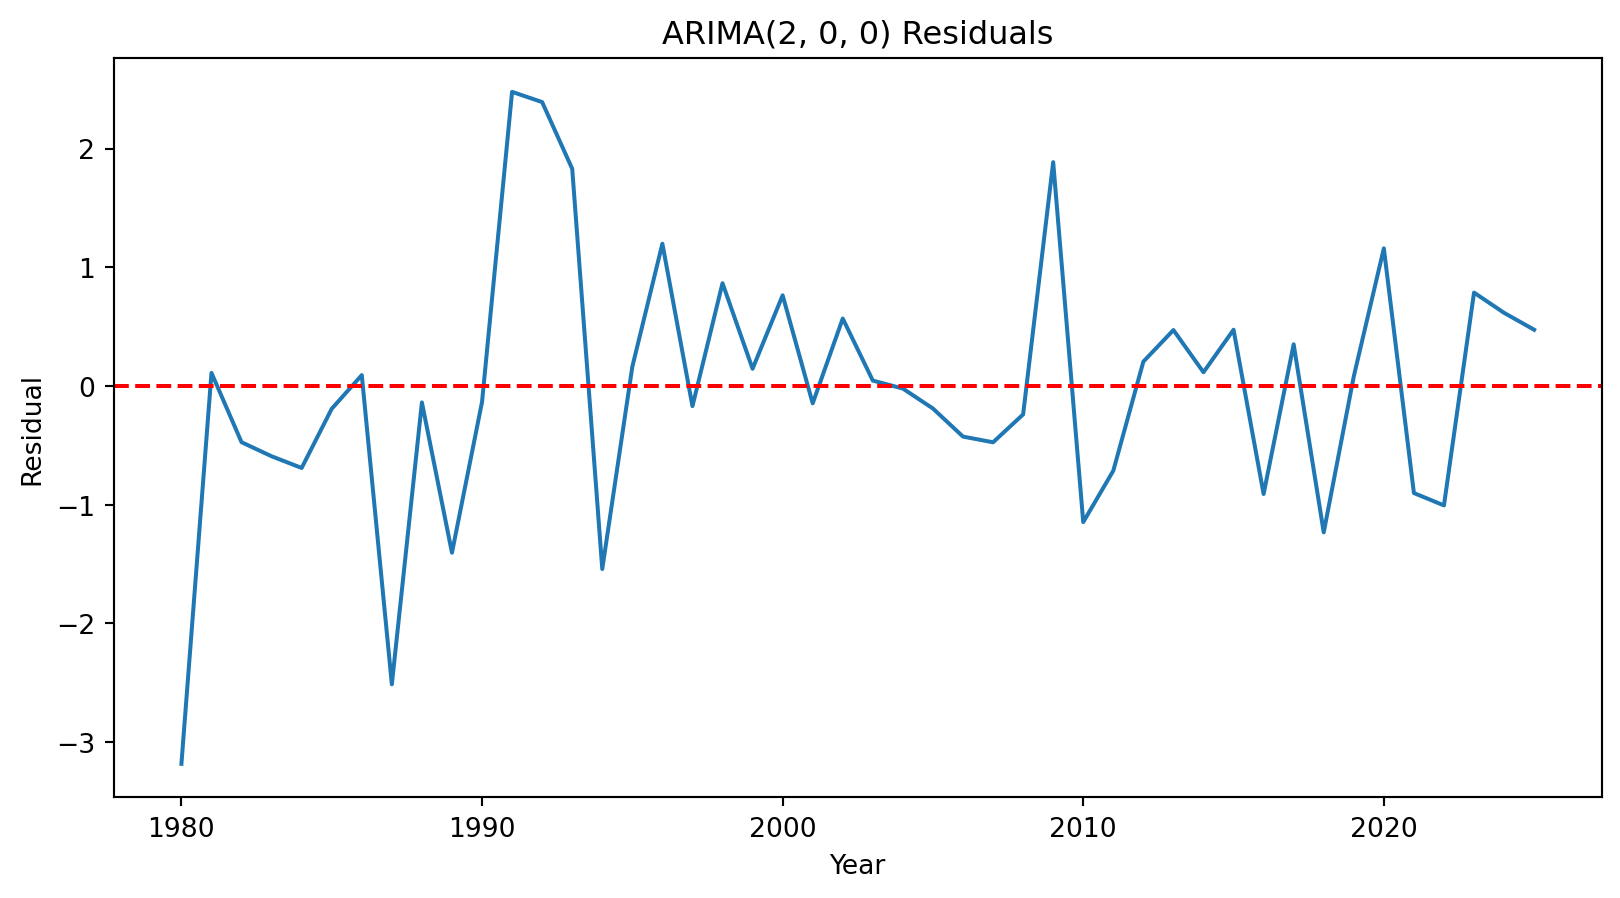
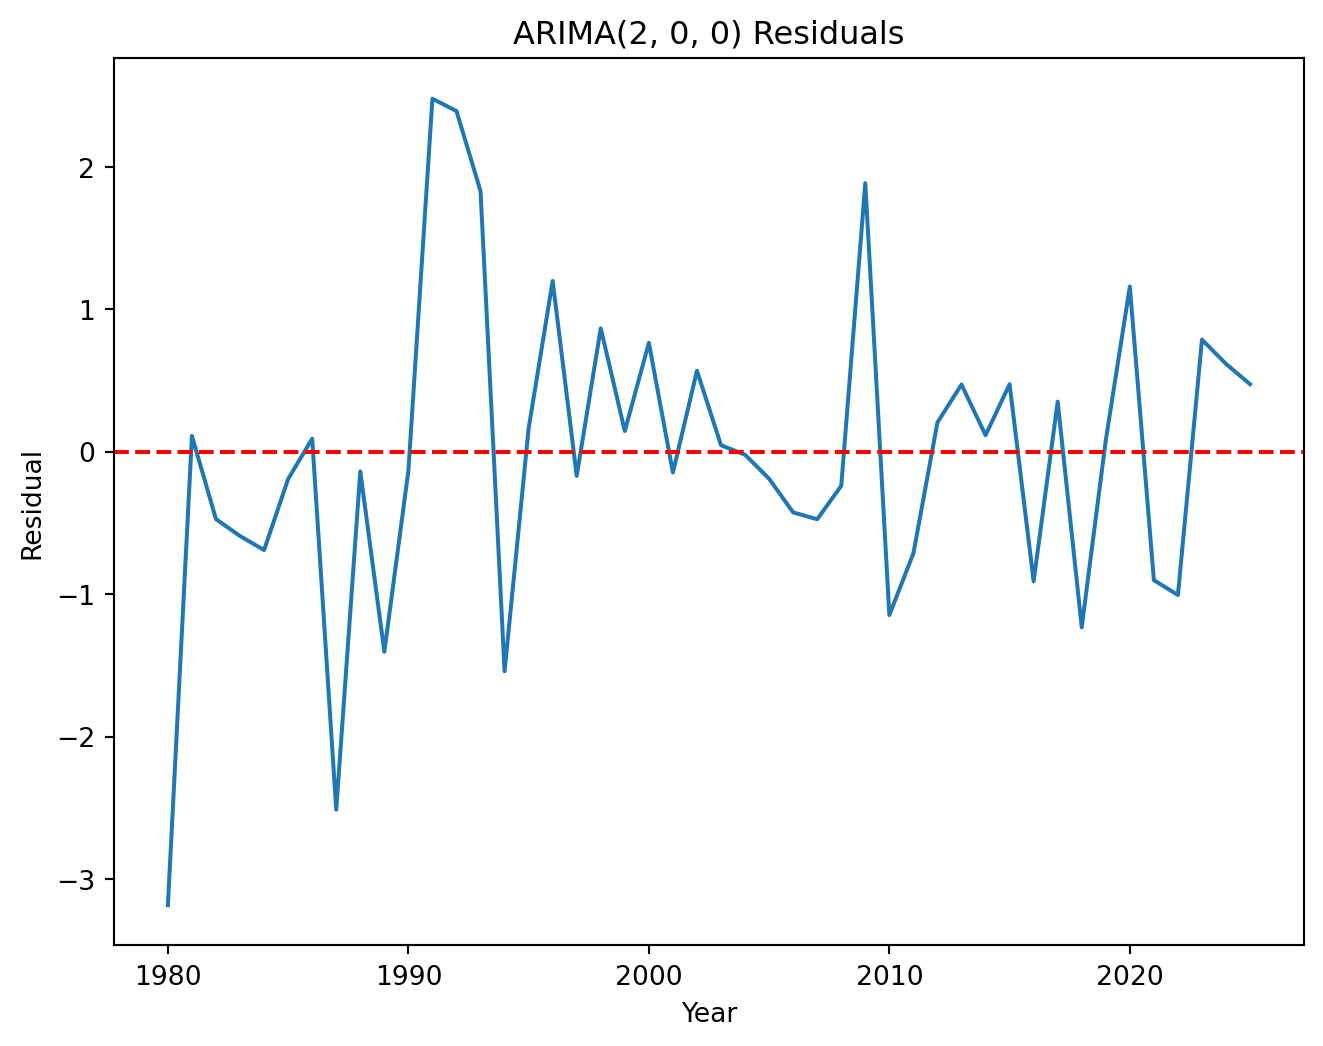
editing acf and pacf article slightly

diff --git a/docs/posts/a-simple-guide-to-acf-and-pacf-plots/index.html b/docs/posts/a-simple-guide-to-acf-and-pacf-plots/index.html
@@ -259,7 +259,7 @@ gtag('config', 'G-C9HXYCSWSJ', { 'anonymize_ip': true});
 <h2 class="anchored" data-anchor-id="how-to-create-acf-and-pacf-plots-in-python">How to create ACF and PACF plots in Python</h2>
 <p>Creating ACF and PACF plots in Python is straightforward. You can do it with two functions from the <code>statsmodels</code> module: <code>plot_acf()</code> and <code>plot_pacf()</code>. More information about these functions can be found <a href="https://www.statsmodels.org/stable/generated/statsmodels.graphics.tsaplots.plot_acf.html">here</a> and <a href="https://www.statsmodels.org/stable/generated/statsmodels.graphics.tsaplots.plot_pacf.html">here</a>.</p>
 <p>We will demonstrate this in the following code cells, using the annual unemployment rate for Finland from 1980 to 2025, available from <a href="https://data360.worldbank.org/en/indicator/IMF_WEO_LUR">the World Bank</a>.</p>
-<div id="60c42fed" class="cell" data-execution_count="1">
+<div id="f1708313" class="cell" data-execution_count="1">
 <div class="code-copy-outer-scaffold"><div class="sourceCode cell-code" id="cb1"><pre class="sourceCode python code-with-copy"><code class="sourceCode python"><span id="cb1-1"><a href="#cb1-1" aria-hidden="true" tabindex="-1"></a><span class="im">import</span> pandas <span class="im">as</span> pd  <span class="co"># For loading and manipulating the data</span></span>
 <span id="cb1-2"><a href="#cb1-2" aria-hidden="true" tabindex="-1"></a><span class="im">import</span> matplotlib.pyplot <span class="im">as</span> plt  <span class="co"># For creating visualizations</span></span>
 <span id="cb1-3"><a href="#cb1-3" aria-hidden="true" tabindex="-1"></a></span>
@@ -290,7 +290,7 @@ gtag('config', 'G-C9HXYCSWSJ', { 'anonymize_ip': true});
 <p>We should now have 46 annual observations, covering 1980 through 2025. It is also worth checking that there are no missing values in the unemployment rate before proceeding.</p>
 <p>Now that we have our data loaded and prepared, we will skip the usual exploration steps and go straight to our ACF and PACF plots.</p>
 <p>There are several parameters you can use to customize these functions. For example, you can control the number of lags to include, the title, whether to display vertical lines or just markers, and whether to include lag 0. For now, however, we will use the default parameters and simply pass in our unemployment rate data.</p>
-<div id="45ad5b7d" class="cell" data-execution_count="2">
+<div id="b233d895" class="cell" data-execution_count="2">
 <div class="code-copy-outer-scaffold"><div class="sourceCode cell-code" id="cb3"><pre class="sourceCode python code-with-copy"><code class="sourceCode python"><span id="cb3-1"><a href="#cb3-1" aria-hidden="true" tabindex="-1"></a><span class="co"># Generate the ACF and PACF plots</span></span>
 <span id="cb3-2"><a href="#cb3-2" aria-hidden="true" tabindex="-1"></a>plot_acf(data[<span class="st">'unemployment_pct'</span>])</span>
 <span id="cb3-3"><a href="#cb3-3" aria-hidden="true" tabindex="-1"></a>plot_pacf(data[<span class="st">'unemployment_pct'</span>])</span>
@@ -341,7 +341,7 @@ gtag('config', 'G-C9HXYCSWSJ', { 'anonymize_ip': true});
 <p>A common guideline is that an MA(q) process has an ACF that cuts off after lag <code>q</code>, while its PACF gradually tails off. An AR(p) process tends to show the opposite pattern: its PACF cuts off after lag <code>p</code>, while its ACF gradually tails off.</p>
 <p>In our case, the ACF gradually tapers off, while the PACF appears to cut off after lag 2. This suggests an AR(2) model as a reasonable starting point.</p>
 <p>The following guide summarizes these common patterns. It is based on Nielsen (2019, p.&nbsp;187).</p>
-<div id="cd9d2a0b" class="cell" data-execution_count="3">
+<div id="0b0e48b9" class="cell" data-execution_count="3">
 <div class="code-copy-outer-scaffold"><div class="sourceCode cell-code" id="cb4"><pre class="sourceCode python code-with-copy"><code class="sourceCode python"><span id="cb4-1"><a href="#cb4-1" aria-hidden="true" tabindex="-1"></a><span class="co"># A quick guide to interpreting ACF and PACF plots</span></span>
 <span id="cb4-2"><a href="#cb4-2" aria-hidden="true" tabindex="-1"></a>acf_pacf_guide <span class="op">=</span> pd.DataFrame(</span>
 <span id="cb4-3"><a href="#cb4-3" aria-hidden="true" tabindex="-1"></a>    {</span>
@@ -391,7 +391,7 @@ gtag('config', 'G-C9HXYCSWSJ', { 'anonymize_ip': true});
 <p>Keep in mind that these are general guidelines, not strict rules. Real-world time series do not always follow these patterns perfectly, and ACF and PACF plots alone cannot determine the best model. It is good practice to compare several candidate models and examine their residuals before settling on one.</p>
 <p>We will leave the differencing order, <code>d</code>, at 0 for this example because we are modeling the original, undifferenced series. However, this choice should ideally be supported by checking whether the series is stationary. Tests such as the Augmented Dickey-Fuller (ADF) test and the KPSS test can help assess stationarity and whether differencing may be appropriate. For more information about stationarity, check out <a href="../understanding-stationarity/index.html">this article</a>. For information about differencing a time series, check out <a href="../differencing/.index.html">this article</a>.</p>
 <p>Let’s fit an ARIMA(2, 0, 0) model now.</p>
-<div id="2510502e" class="cell" data-execution_count="4">
+<div id="9736f753" class="cell" data-execution_count="4">
 <div class="code-copy-outer-scaffold"><div class="sourceCode cell-code" id="cb5"><pre class="sourceCode python code-with-copy"><code class="sourceCode python"><span id="cb5-1"><a href="#cb5-1" aria-hidden="true" tabindex="-1"></a><span class="im">from</span> statsmodels.tsa.arima.model <span class="im">import</span> ARIMA</span>
 <span id="cb5-2"><a href="#cb5-2" aria-hidden="true" tabindex="-1"></a></span>
 <span id="cb5-3"><a href="#cb5-3" aria-hidden="true" tabindex="-1"></a><span class="co"># Create and fit the ARIMA(2, 0, 0) model</span></span>
@@ -431,7 +431,7 @@ C:\Users\Joel\AppData\Local\Programs\Python\Python313\Lib\site-packages\statsmod
 </tr>
 <tr class="even">
 <th data-quarto-table-cell-role="th">Time:</th>
-<td>12:02:07</td>
+<td>12:06:53</td>
 <th data-quarto-table-cell-role="th">BIC</th>
 <td>147.238</td>
 </tr>
@@ -547,12 +547,12 @@ C:\Users\Joel\AppData\Local\Programs\Python\Python313\Lib\site-packages\statsmod
 </ul>
 <p>One more step will help us evaluate the suitability of our model: examining its residuals. Residuals are the differences between the observed values and the values predicted by the fitted model.</p>
 <p>We can access them using the <code>.resid</code> property of our fitted ARIMA model.</p>
-<div id="2015efbc" class="cell" data-execution_count="5">
+<div id="4b9fe78d" class="cell" data-execution_count="5">
 <div class="code-copy-outer-scaffold"><div class="sourceCode cell-code" id="cb7"><pre class="sourceCode python code-with-copy"><code class="sourceCode python"><span id="cb7-1"><a href="#cb7-1" aria-hidden="true" tabindex="-1"></a><span class="co"># Extract the residuals</span></span>
 <span id="cb7-2"><a href="#cb7-2" aria-hidden="true" tabindex="-1"></a>residuals <span class="op">=</span> model.resid</span>
 <span id="cb7-3"><a href="#cb7-3" aria-hidden="true" tabindex="-1"></a></span>
 <span id="cb7-4"><a href="#cb7-4" aria-hidden="true" tabindex="-1"></a><span class="co"># Plot the residuals over time</span></span>
-<span id="cb7-5"><a href="#cb7-5" aria-hidden="true" tabindex="-1"></a>plt.figure(figsize<span class="op">=</span>(<span class="dv">10</span>, <span class="dv">5</span>))</span>
+<span id="cb7-5"><a href="#cb7-5" aria-hidden="true" tabindex="-1"></a>plt.figure(figsize<span class="op">=</span>(<span class="dv">8</span>, <span class="dv">6</span>))</span>
 <span id="cb7-6"><a href="#cb7-6" aria-hidden="true" tabindex="-1"></a>plt.plot(residuals.index, residuals)</span>
 <span id="cb7-7"><a href="#cb7-7" aria-hidden="true" tabindex="-1"></a>plt.axhline(y<span class="op">=</span><span class="dv">0</span>, color<span class="op">=</span><span class="st">'red'</span>, linestyle<span class="op">=</span><span class="st">'--'</span>)</span>
 <span id="cb7-8"><a href="#cb7-8" aria-hidden="true" tabindex="-1"></a></span>
@@ -563,57 +563,26 @@ C:\Users\Joel\AppData\Local\Programs\Python\Python313\Lib\site-packages\statsmod
 <div class="cell-output cell-output-display">
 <div>
 <figure class="figure">
-<p><img src="index_files/figure-html/cell-6-output-1.png" width="810" height="449" class="figure-img"></p>
+<p><img src="index_files/figure-html/cell-6-output-1.png" width="662" height="523" class="figure-img"></p>
 </figure>
 </div>
 </div>
 </div>
 <p>Ideally, residuals should fluctuate randomly around zero, without any obvious patterns or systematic structure. If a pattern remains, it may indicate that the model has not captured all of the information in the time series.</p>
 <p>What we see here is mostly encouraging. The residuals appear to fluctuate around the zero line, with no obvious remaining pattern. However, they do show some increased variance in the 1990s. This is worth investigating, as it may indicate that the variability of the errors is not constant over time.</p>
-<p>We can also examine the ACF plot of the residuals to see whether any autocorrelation remains. Ideally, most residual autocorrelations should fall within the approximate confidence intervals. A Ljung-Box test can provide an additional check for remaining autocorrelation across multiple lags.</p>
-<div id="5f639f30" class="cell" data-execution_count="6">
+<p>We can also examine the ACF plot of the residuals to see whether any autocorrelation remains. Ideally, most residual autocorrelations should fall within the approximate confidence intervals.</p>
+<div id="7971ae95" class="cell" data-execution_count="6">
 <div class="code-copy-outer-scaffold"><div class="sourceCode cell-code" id="cb8"><pre class="sourceCode python code-with-copy"><code class="sourceCode python"><span id="cb8-1"><a href="#cb8-1" aria-hidden="true" tabindex="-1"></a><span class="im">from</span> statsmodels.graphics.tsaplots <span class="im">import</span> plot_acf</span>
 <span id="cb8-2"><a href="#cb8-2" aria-hidden="true" tabindex="-1"></a><span class="im">from</span> statsmodels.stats.diagnostic <span class="im">import</span> acorr_ljungbox</span>
 <span id="cb8-3"><a href="#cb8-3" aria-hidden="true" tabindex="-1"></a></span>
 <span id="cb8-4"><a href="#cb8-4" aria-hidden="true" tabindex="-1"></a><span class="co"># Plot the residual ACF</span></span>
 <span id="cb8-5"><a href="#cb8-5" aria-hidden="true" tabindex="-1"></a>plot_acf(residuals)</span>
-<span id="cb8-6"><a href="#cb8-6" aria-hidden="true" tabindex="-1"></a>plt.show()</span>
-<span id="cb8-7"><a href="#cb8-7" aria-hidden="true" tabindex="-1"></a></span>
-<span id="cb8-8"><a href="#cb8-8" aria-hidden="true" tabindex="-1"></a><span class="co"># Test for remaining autocorrelation at several lags</span></span>
-<span id="cb8-9"><a href="#cb8-9" aria-hidden="true" tabindex="-1"></a>acorr_ljungbox(residuals, lags<span class="op">=</span>[<span class="dv">5</span>, <span class="dv">10</span>], return_df<span class="op">=</span><span class="va">True</span>)</span></code></pre></div><button title="Copy to Clipboard" class="code-copy-button"><i class="bi"></i></button></div>
+<span id="cb8-6"><a href="#cb8-6" aria-hidden="true" tabindex="-1"></a>plt.show()</span></code></pre></div><button title="Copy to Clipboard" class="code-copy-button"><i class="bi"></i></button></div>
 <div class="cell-output cell-output-display">
 <div>
 <figure class="figure">
 <p><img src="index_files/figure-html/cell-7-output-1.png" width="590" height="431" class="figure-img"></p>
 </figure>
-</div>
-</div>
-<div class="cell-output cell-output-display" data-execution_count="6">
-<div>
-
-
-<table class="dataframe caption-top table table-sm table-striped small" data-border="1">
-<thead>
-<tr class="header">
-<th data-quarto-table-cell-role="th"></th>
-<th data-quarto-table-cell-role="th">lb_stat</th>
-<th data-quarto-table-cell-role="th">lb_pvalue</th>
-</tr>
-</thead>
-<tbody>
-<tr class="odd">
-<th data-quarto-table-cell-role="th">5</th>
-<td>0.702527</td>
-<td>0.98283</td>
-</tr>
-<tr class="even">
-<th data-quarto-table-cell-role="th">10</th>
-<td>3.605327</td>
-<td>0.96340</td>
-</tr>
-</tbody>
-</table>
-
 </div>
 </div>
 </div>

diff --git a/docs/index.html b/docs/index.html
@@ -263,7 +263,7 @@ window.Quarto = {
 <p>Browse the latest articles below.</p>
 <div id="listing-latest-posts" class="quarto-listing quarto-listing-container-default">
 <div class="list quarto-listing-default">
[2 lines of base64/hex data omitted]
 <div class="body">
 <h3 class="no-anchor listing-title">
 <a href="./posts/a-simple-guide-to-acf-and-pacf-plots/index.html" class="no-external">A Simple Guide to ACF and PACF Plots</a>

diff --git a/docs/archive.html b/docs/archive.html
@@ -254,7 +254,7 @@ window.Quarto = {
     </div>
 </div>
 <div class="list quarto-listing-default">
[2 lines of base64/hex data omitted]
 <div class="body">
 <h3 class="no-anchor listing-title">
 <a href="./posts/a-simple-guide-to-acf-and-pacf-plots/index.html" class="no-external">A Simple Guide to ACF and PACF Plots</a>
